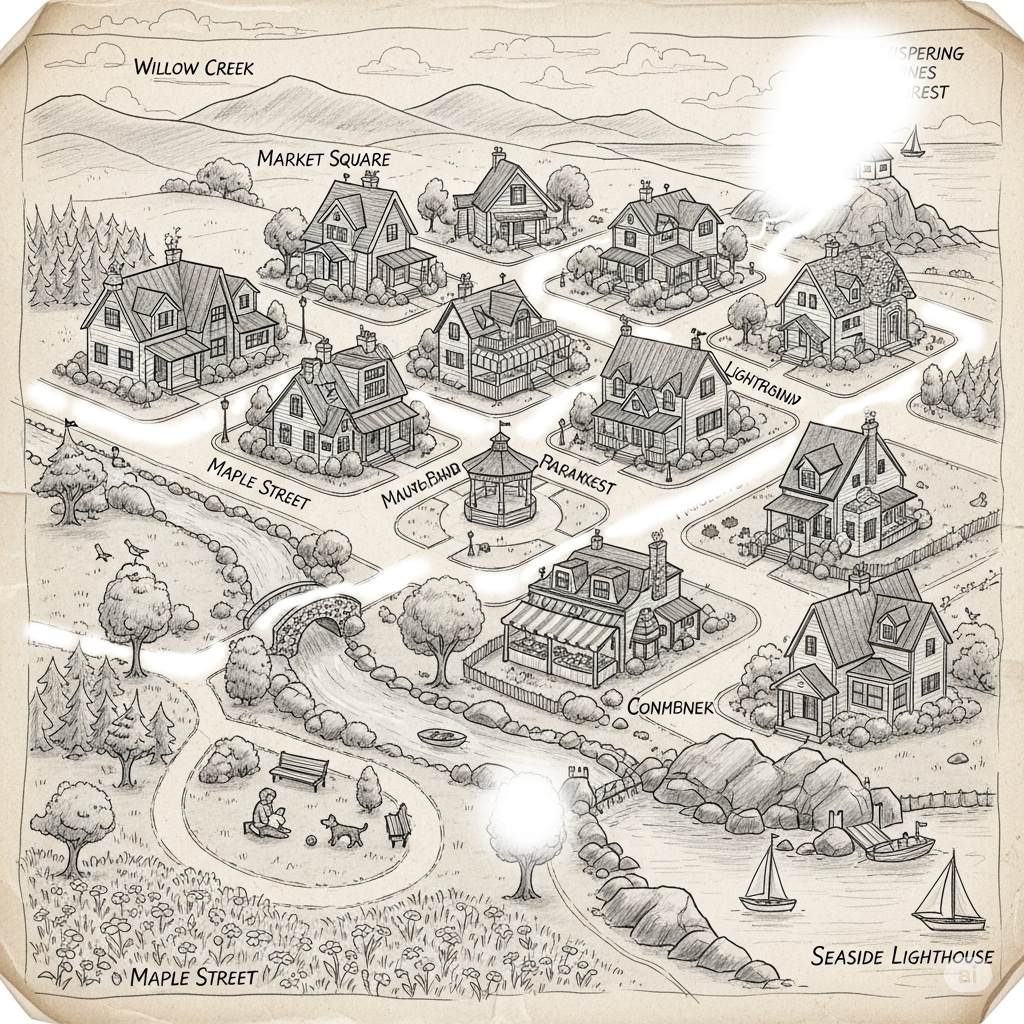
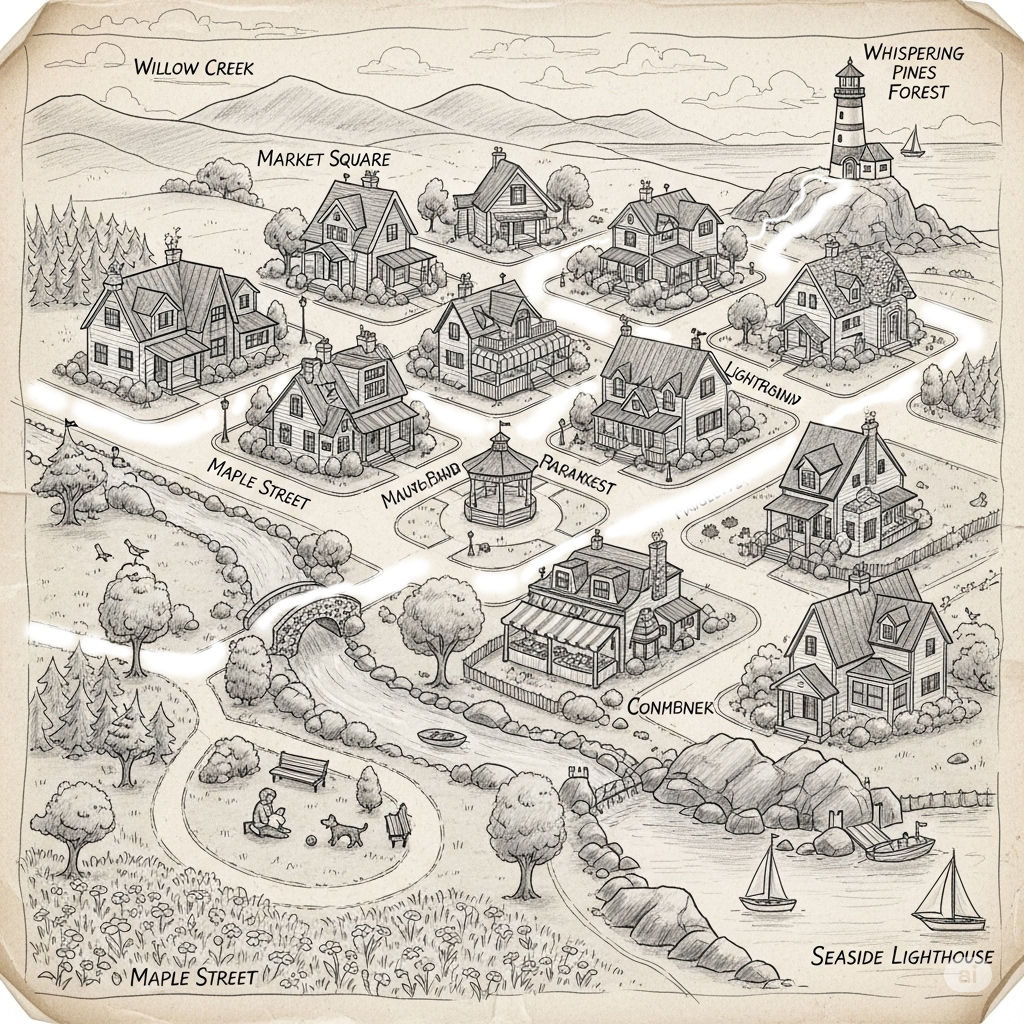
lights become events, paths get extra properties, added top canvas

Changed region(s): [[0.7188, 0.0, 0.9062, 0.2188], [0.4688, 0.75, 0.5938, 0.875]]

diff --git a/src/App.jsx b/src/App.jsx
@@ -6,7 +6,7 @@ function App() {
     const [isDragging, setIsDragging] = useState(false);
     const [newPath, setNewPath] = useState([]);
     const [allPaths, setAllPaths] = useState([]);
-    const [lights, setLights] = useState([]);
+    const [events, setEvents] = useState([]);
     const [recordButtonText, setRecordButtonText] = useState('Start New Path');
 
     const [title, setTitle] = useState('');
@@ -21,7 +21,8 @@ function App() {
     const [isAdmin, setIsAdmin] = useState(false);
 
 
-    const canvasRef = useRef(null);
+    const canvasTopRef = useRef(null);
+    const canvasBottomRef = useRef(null);
     const overlayRef = useRef(null);
     const animationFrameId = useRef();
 
@@ -33,12 +34,12 @@ function App() {
 
         Promise.all([
             fetch('paths.json').then(res => res.json()),
-            fetch('lights.json').then(res => res.json()),
+            fetch('events.json').then(res => res.json()),
             fetch(`config.json?v=${new Date().getTime()}`).then(res => res.json())
-        ]).then(([loadedPaths, loadedLights, configData]) => {
+        ]).then(([loadedPaths, loadedEvents, configData]) => {
             setAllPaths(loadedPaths);
-            setLights(loadedLights);
-            console.log(`Successfully loaded ${loadedPaths.length} paths and ${loadedLights.length} lights.`);
+            setEvents(loadedEvents);
+            console.log(`Successfully loaded ${loadedPaths.length} paths and ${loadedEvents.length} events.`);
 
             setTitle(configData.title);
             setDescription(configData.description);
@@ -73,51 +74,60 @@ function App() {
 
     useEffect(() => {
         drawCanvas();
-    }, [sliderValue, allPaths, lights, isRecording, newPath]); // Added dependencies
+    }, [sliderValue, allPaths, events, isRecording, newPath]); // Added dependencies
 
-    const getCanvasContext = () => {
-        const canvas = canvasRef.current;
+    const getCanvasTopContext = () => {
+        const canvas = canvasTopRef.current;
+        return canvas ? canvas.getContext('2d') : null;
+    };
+    const getCanvasBottomContext = () => {
+        const canvas = canvasBottomRef.current;
         return canvas ? canvas.getContext('2d') : null;
     };
 
     const drawCanvas = () => {
-        const ctx = getCanvasContext();
-        if (!ctx) return;
+        const ctxBottom = getCanvasBottomContext();
+        if (!ctxBottom) return;
+        const ctxTop = getCanvasTopContext();
 
-        ctx.clearRect(0, 0, ctx.canvas.width, ctx.canvas.height);
+        ctxBottom.clearRect(0, 0, ctxBottom.canvas.width, ctxBottom.canvas.height);
+        ctxTop.clearRect(0, 0, ctxTop.canvas.width, ctxTop.canvas.height);
 
         if (isRecording) {
-            drawRecordingFeedback(ctx);
+            drawRecordingFeedback(ctxBottom);
             return;
         }
 
         const progress = sliderValue / 100;
-        ctx.strokeStyle = 'gold';
-        ctx.lineWidth = 15;
-        ctx.lineCap = 'round';
-        ctx.lineJoin = 'round';
 
-        allPaths.forEach(currentPath => {
+        allPaths.forEach(path => {
+            const ctx = path.aboveOverlay ? ctxTop : ctxBottom;
+            ctx.strokeStyle = path.strokeStyle;
+            ctx.lineWidth = path.lineWidth;
+            ctx.lineCap = 'round';
+            ctx.lineJoin = 'round';
             ctx.beginPath();
-            if (currentPath.length > 0) {
-                ctx.moveTo(currentPath[0].x, currentPath[0].y);
-                const segments = (currentPath.length - 1) * progress;
+            const coords = path.coords;
+            if (coords.length > 0) {
+                ctx.moveTo(coords[0].x, coords[0].y);
+                const segments = (coords.length - 1) * progress;
                 for (let i = 0; i < segments; i++) {
-                    if (currentPath[i + 1]) ctx.lineTo(currentPath[i + 1].x, currentPath[i + 1].y);
+                    if (coords[i + 1]) ctx.lineTo(coords[i + 1].x, coords[i + 1].y);
                 }
                 ctx.stroke();
             }
         });
 
-        lights.forEach(light => {
-            if (sliderValue >= light.percentage) {
-                const glow = ctx.createRadialGradient(light.x, light.y, 0, light.x, light.y, light.radius);
+        events.forEach(event => {
+            const ctx = event.aboveOverlay ? ctxTop : ctxBottom;
+            if (sliderValue >= event.percentage) {
+                const glow = ctx.createRadialGradient(event.x, event.y, 0, event.x, event.y, event.radius);
                 glow.addColorStop(0, 'rgba(255, 255, 0, 1)');
                 glow.addColorStop(0.5, 'rgba(255, 255, 0, 0.7)');
                 glow.addColorStop(1, 'rgba(255, 255, 0, 0)');
                 ctx.fillStyle = glow;
                 ctx.beginPath();
-                ctx.arc(light.x, light.y, light.radius, 0, 2 * Math.PI);
+                ctx.arc(event.x, event.y, event.radius, 0, 2 * Math.PI);
                 ctx.fill();
             }
         });
@@ -177,7 +187,7 @@ function App() {
     };
 
     const getMousePos = (e) => {
-        const rect = canvasRef.current.getBoundingClientRect();
+        const rect = canvasTopRef.current.getBoundingClientRect();
         return {
             x: Math.round(e.clientX - rect.left),
             y: Math.round(e.clientY - rect.top)
@@ -207,8 +217,8 @@ function App() {
                 <div className="map-container">
                     <img id="mapImage" src="./map.png" width="1024" height="1024" alt="Map" />
                     <canvas
-                        ref={canvasRef}
-                        id="pathCanvas"
+                        ref={canvasBottomRef}
+                        id="pathCanvasBottom"
                         width="1024"
                         height="1024"
                         onMouseDown={handleMouseDown}
@@ -217,6 +227,16 @@ function App() {
                         onMouseLeave={handleMouseUp}
                     />
                     {showOverlay&&<img ref={overlayRef} id="overlayImage" src="./map_overlay.png" width="1024" height="1024" alt="Foreground elements" />}
+                    <canvas
+                        ref={canvasTopRef}
+                        id="pathCanvasTop"
+                        width="1024"
+                        height="1024"
+                        onMouseDown={handleMouseDown}
+                        onMouseMove={handleMouseMove}
+                        onMouseUp={handleMouseUp}
+                        onMouseLeave={handleMouseUp}
+                    />
                 </div>
             <div className="app-footer">
                 <p className="progress-text">

diff --git a/src/index.css b/src/index.css
@@ -71,8 +71,9 @@ p.progress-text {
 }
 
 #mapImage { z-index: 1; }
-#pathCanvas { z-index: 2; }
+#pathCanvasBottom { z-index: 2; }
 #overlayImage { z-index: 3; }
+#pathCanvasTop { z-index: 4; }
 
 .controls {
     display: flex;
